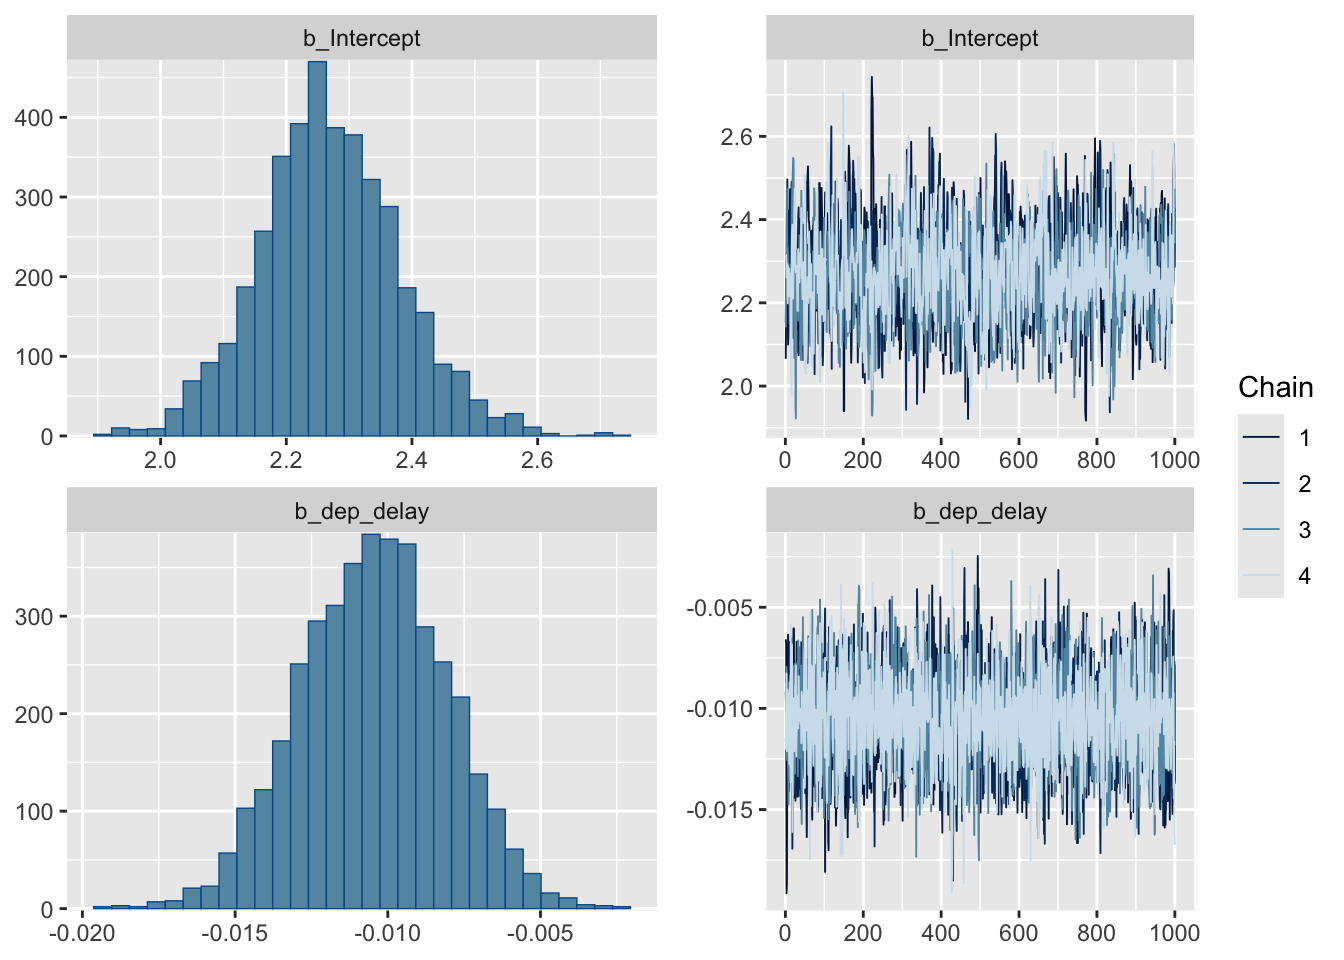
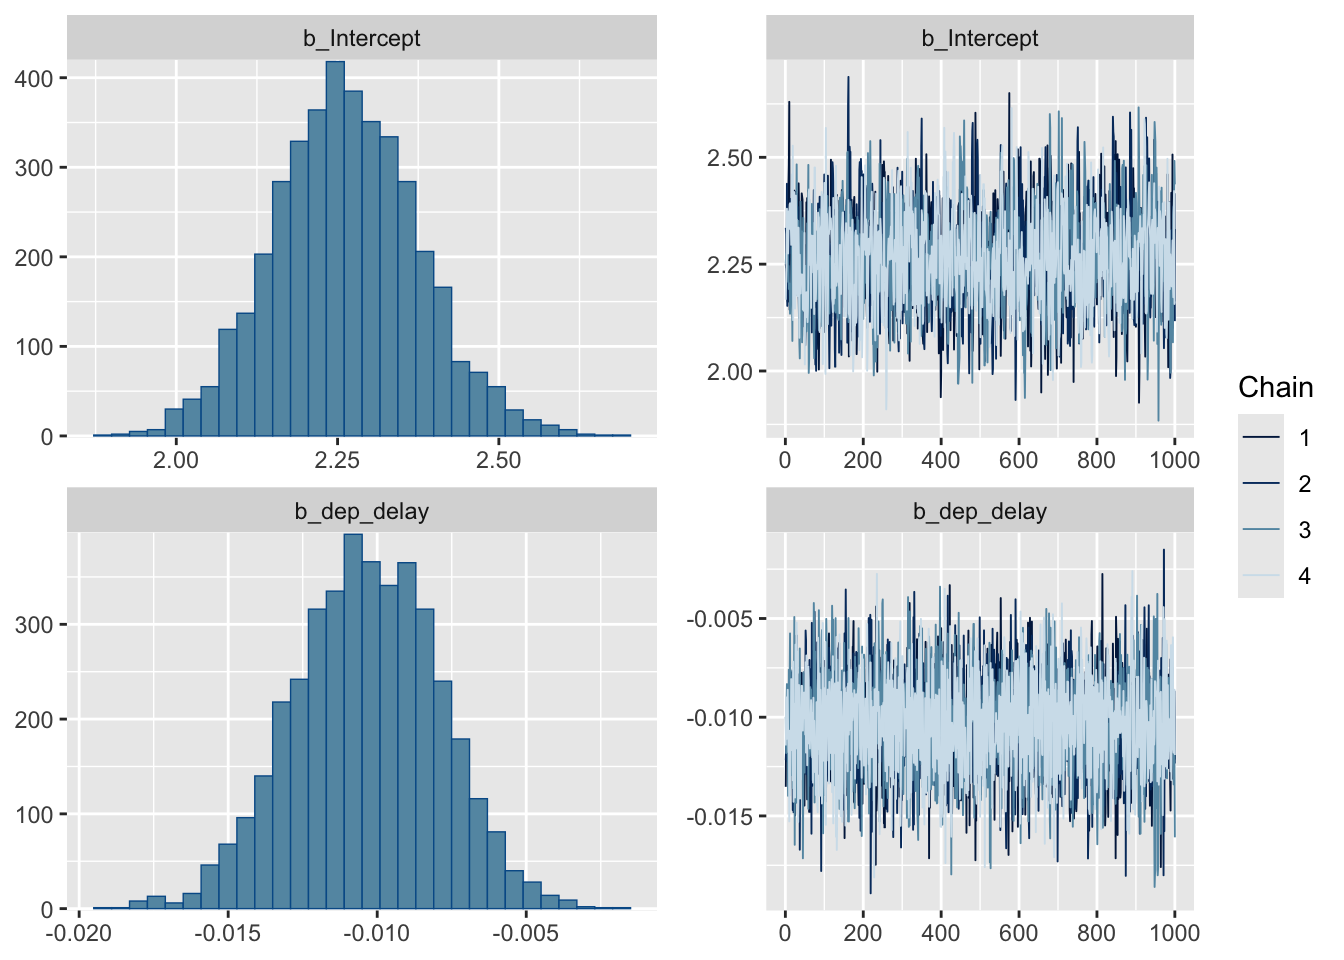
about me

diff --git a/docs/posts/first-post/index.html b/docs/posts/first-post/index.html
@@ -344,7 +344,7 @@ The following object is masked from 'package:dplyr':
 <span id="cb18-7"><a href="#cb18-7" aria-hidden="true" tabindex="-1"></a>  <span class="fu">labs</span>(<span class="at">x =</span> <span class="st">"Departure Delay (minutes)"</span>, <span class="at">y =</span> <span class="st">"Predicted Satisfaction"</span>,</span>
 <span id="cb18-8"><a href="#cb18-8" aria-hidden="true" tabindex="-1"></a>       <span class="at">title =</span> <span class="st">"Prior Predictive Distribution of Satisfaction"</span>)</span></code><button title="Copy to Clipboard" class="code-copy-button"><i class="bi"></i></button></pre></div>
 <div class="cell-output cell-output-stderr">
-<pre><code>Warning: Removed 272 rows containing missing values or values outside the scale range
+<pre><code>Warning: Removed 270 rows containing missing values or values outside the scale range
 (`geom_point()`).</code></pre>
 </div>
 <div class="cell-output-display">
@@ -393,8 +393,8 @@ Formula: satisfaction ~ dep_delay
 
 Regression Coefficients:
           Estimate Est.Error l-95% CI u-95% CI Rhat Bulk_ESS Tail_ESS
-Intercept     2.27      0.11     2.06     2.50 1.00     1179     1735
-dep_delay    -0.01      0.00    -0.02    -0.01 1.00     3871     2933
+Intercept     2.26      0.11     2.05     2.49 1.00     1718     1745
+dep_delay    -0.01      0.00    -0.02    -0.01 1.00     3740     3011
 
 Draws were sampled using sampling(NUTS). For each parameter, Bulk_ESS
 and Tail_ESS are effective sample size measures, and Rhat is the potential
@@ -414,11 +414,11 @@ scale reduction factor on split chains (at convergence, Rhat = 1).</code></pre>
 <span id="cb29-2"><a href="#cb29-2" aria-hidden="true" tabindex="-1"></a><span class="fu">print</span>(ci)</span></code><button title="Copy to Clipboard" class="code-copy-button"><i class="bi"></i></button></pre></div>
 <div class="cell-output cell-output-stdout">
 <pre><code>                 Estimate   Est.Error          Q2.5         Q97.5
-b_Intercept    2.26958305 0.111966195    2.05524632  2.502076e+00
-b_dep_delay   -0.01047574 0.002408192   -0.01513133 -5.906598e-03
-Intercept      2.17634896 0.107142421    1.96766324  2.395174e+00
-lprior        -2.36822434 0.039766102   -2.45106544 -2.292611e+00
-lp__        -332.38638692 1.045709591 -335.19875519 -3.314048e+02</code></pre>
+b_Intercept    2.26365050 0.111776383    2.04756832  2.492048e+00
+b_dep_delay   -0.01036457 0.002446404   -0.01526691 -5.756473e-03
+Intercept      2.17140586 0.105822697    1.97086454  2.387417e+00
+lprior        -2.36638160 0.039205074   -2.44803280 -2.293726e+00
+lp__        -332.38234011 0.979655019 -335.06355886 -3.314082e+02</code></pre>
 </div>
 </div>
 </section>
@@ -479,8 +479,8 @@ Formula: satisfaction ~ dep_delay
 
 Regression Coefficients:
           Estimate Est.Error l-95% CI u-95% CI Rhat Bulk_ESS Tail_ESS
-Intercept     2.27      0.11     2.06     2.49 1.00     1741     2071
-dep_delay    -0.01      0.00    -0.02    -0.01 1.00     3347     2582
+Intercept     2.27      0.11     2.06     2.49 1.00     1631     2153
+dep_delay    -0.01      0.00    -0.02    -0.01 1.00     3814     3081
 
 Draws were sampled using sampling(NUTS). For each parameter, Bulk_ESS
 and Tail_ESS are effective sample size measures, and Rhat is the potential
@@ -503,12 +503,12 @@ scale reduction factor on split chains (at convergence, Rhat = 1).</code></pre>
 <div class="sourceCode cell-code" id="cb40"><pre class="sourceCode r code-with-copy"><code class="sourceCode r"><span id="cb40-1"><a href="#cb40-1" aria-hidden="true" tabindex="-1"></a>ci <span class="ot">&lt;-</span> <span class="fu">posterior_summary</span>(fit_prior, <span class="at">probs =</span> <span class="fu">c</span>(<span class="fl">0.025</span>, <span class="fl">0.975</span>))</span>
 <span id="cb40-2"><a href="#cb40-2" aria-hidden="true" tabindex="-1"></a><span class="fu">print</span>(ci)</span></code><button title="Copy to Clipboard" class="code-copy-button"><i class="bi"></i></button></pre></div>
 <div class="cell-output cell-output-stdout">
-<pre><code>                 Estimate   Est.Error          Q2.5         Q97.5
-b_Intercept    2.26995012 0.111239116    2.05624433  2.491284e+00
-b_dep_delay   -0.01043287 0.002501982   -0.01560002 -5.867454e-03
-Intercept      2.17709757 0.106051296    1.97613741  2.387037e+00
-lprior        -4.85737872 0.002317320   -4.86212455 -4.853144e+00
-lp__        -334.90143595 1.032939173 -337.60166201 -3.338944e+02</code></pre>
+<pre><code>                Estimate   Est.Error          Q2.5         Q97.5
+b_Intercept    2.2740689 0.109121807    2.06356973  2.491882e+00
+b_dep_delay   -0.0105105 0.002430995   -0.01539138 -5.923673e-03
+Intercept      2.1805255 0.104103385    1.98044671  2.386477e+00
+lprior        -4.8574515 0.002274485   -4.86210351 -4.853234e+00
+lp__        -334.8570389 0.978801116 -337.46009503 -3.339049e+02</code></pre>
 </div>
 </div>
 <p>After setting our own priors for our model, we got results that we the same. The $\beta_0$ value was the exact same of 2.27. The $\beta_1$ values or the slope, were the exact same at -0.01. The 95% credible interval for the intercept is approximately [2.06, 2.48], indicating that we are 95% confident that the true intercept lies within this range. This was pretty much the same as the 95% confidence interval for brm’s priors that was [2.06, 2.49]. The 95% credible interval for `dep_delay` is approximately [-0.016, -0.006], there is a 95% probability that the true value from dep_delay is within the interval. This is sightly different from the 95% credible interval for brm’s priors that was [-0.010, 0.003]. This is probably because brm chose a flat prior for the slope, but we picked one that included some prior knowledge on the slope. Overall, the prior had very little influence on the posterior distribution. So the model is not very sensitivity to the prior.</p>

diff --git a/docs/projects.html b/docs/projects.html
@@ -147,7 +147,7 @@ ul.task-list li input[type="checkbox"] {
 <!-- margin-sidebar -->
     <div id="quarto-margin-sidebar" class="sidebar margin-sidebar">
         
-    <h5 class="quarto-listing-category-title">Categories</h5><div class="quarto-listing-category category-default"><div class="category" data-category="">All <span class="quarto-category-count">(2)</span></div><div class="category" data-category="Bayesian">Bayesian <span class="quarto-category-count">(1)</span></div><div class="category" data-category="analysis">analysis <span class="quarto-category-count">(1)</span></div><div class="category" data-category="code">code <span class="quarto-category-count">(1)</span></div></div></div>
+    <h5 class="quarto-listing-category-title">Categories</h5><div class="quarto-listing-category category-default"><div class="category" data-category="">All <span class="quarto-category-count">(2)</span></div><div class="category" data-category="Bayesian">Bayesian <span class="quarto-category-count">(2)</span></div><div class="category" data-category="analysis">analysis <span class="quarto-category-count">(2)</span></div><div class="category" data-category="code">code <span class="quarto-category-count">(2)</span></div></div></div>
 <!-- main -->
 <main class="content quarto-banner-title-block column-page-left" id="quarto-document-content">
 
@@ -160,36 +160,7 @@ ul.task-list li input[type="checkbox"] {
 
 <div class="quarto-listing quarto-listing-container-default" id="listing-listing">
 <div class="list quarto-listing-default">
-<div class="quarto-post image-right" data-index="0" data-listing-file-modified-sort="1718244838181" data-listing-reading-time-sort="9.245">
-<div class="thumbnail">
-<a href="./posts/second-post/index.html">
-<div class="thumbnail-image">
-
-</div>
-</a><p><a href="./posts/second-post/index.html"></a></p>
-</div>
-<div class="body">
-<a href="./posts/second-post/index.html">
-<h3 class="no-anchor listing-title">
-Naive Bayes Classification
-</h3>
-<div class="listing-subtitle">
-
-</div>
-<div class="listing-description">
-In this file, will use naive Bayes classification…
-</div>
-</a>
-</div>
-<div class="metadata">
-<a href="./posts/second-post/index.html">
-<div class="listing-author">
-Jose Garcia
-</div>
-</a>
-</div>
-</div>
-<div class="quarto-post image-right" data-index="1" data-categories="Bayesian,code,analysis" data-listing-date-sort="1716793200000" data-listing-file-modified-sort="1718241823671" data-listing-reading-time-sort="6.07">
+<div class="quarto-post image-right" data-index="0" data-categories="Bayesian,code,analysis" data-listing-date-sort="1716793200000" data-listing-file-modified-sort="1718241823671" data-listing-reading-time-sort="6.07">
 <div class="thumbnail">
 <p><a href="./posts/first-post/index.html"> <img src="./posts/first-post/plane.jpg" class="thumnail-image"> </a></p>
 </div>
@@ -223,6 +194,51 @@ Our research question is how does flight departure delay affect customer…
 <a href="./posts/first-post/index.html">
 <div class="listing-date">
 May 27, 2024
+</div>
+<div class="listing-author">
+Jose Garcia
+</div>
+</a>
+</div>
+</div>
+<div class="quarto-post image-right" data-index="1" data-categories="Bayesian,code,analysis" data-listing-date-sort="1715065200000" data-listing-file-modified-sort="1718247042401" data-listing-reading-time-sort="9.245">
+<div class="thumbnail">
+<a href="./posts/second-post/index.html">
+<div class="thumbnail-image">
+
+</div>
+</a><p><a href="./posts/second-post/index.html"></a></p>
+</div>
+<div class="body">
+<a href="./posts/second-post/index.html">
+<h3 class="no-anchor listing-title">
+Naive Bayes Classification
+</h3>
+<div class="listing-subtitle">
+
+</div>
+</a>
+<div class="listing-categories">
+<div class="listing-category" onclick="window.quartoListingCategory('Bayesian'); return false;">
+Bayesian
+</div>
+<div class="listing-category" onclick="window.quartoListingCategory('code'); return false;">
+code
+</div>
+<div class="listing-category" onclick="window.quartoListingCategory('analysis'); return false;">
+analysis
+</div>
+</div>
+<a href="./posts/second-post/index.html">
+<div class="listing-description">
+In this file, will use naive Bayes classification…
+</div>
+</a>
+</div>
+<div class="metadata">
+<a href="./posts/second-post/index.html">
+<div class="listing-date">
+May 7, 2024
 </div>
 <div class="listing-author">
 Jose Garcia

diff --git a/docs/posts/second-post/index.html b/docs/posts/second-post/index.html
@@ -7,6 +7,7 @@
 <meta name="viewport" content="width=device-width, initial-scale=1.0, user-scalable=yes">
 
 <meta name="author" content="Jose Garcia">
+<meta name="dcterms.date" content="2024-05-07">
 
 <title>Website - Naive Bayes Classification</title>
 <style>
@@ -179,7 +180,12 @@ code span.wa { color: #60a0b0; font-weight: bold; font-style: italic; } /* Warni
 <header id="title-block-header" class="quarto-title-block default">
 <div class="quarto-title">
 <h1 class="title">Naive Bayes Classification</h1>
-</div>
+  <div class="quarto-categories">
+    <div class="quarto-category">Bayesian</div>
+    <div class="quarto-category">code</div>
+    <div class="quarto-category">analysis</div>
+  </div>
+  </div>
 
 
 
@@ -192,6 +198,12 @@ code span.wa { color: #60a0b0; font-weight: bold; font-style: italic; } /* Warni
           </div>
   </div>
     
+    <div>
+    <div class="quarto-title-meta-heading">Published</div>
+    <div class="quarto-title-meta-contents">
+      <p class="date">May 7, 2024</p>
+    </div>
+  </div>
   
     
   </div>

diff --git a/docs/index.html b/docs/index.html
@@ -108,8 +108,10 @@ ul.task-list li input[type="checkbox"] {
 <div class="quarto-title-meta">
   </div>
 </header><main class="content" id="quarto-document-content">
-<p>Welcome to my site! Let’s see if this works!</p>
-<p>Click the links below to learn more about me, or, check out some of my projects above.</p>
+<p>Welcome to my site!</p>
+<p>My name is Jose Garcia,a 4th year student studying Statistics at California Polytechnic State University, San Luis Obispo. I am from <a href="https://www.google.com/maps/place/San+Jose,+CA/@37.2961211,-121.9809051,11z/data=!3m1!4b1!4m6!3m5!1s0x808fcae48af93ff5:0xb99d8c0aca9f717b!8m2!3d37.33874!4d-121.8852525!16zL20vMGYwNHY?entry=ttu">San Jose, CA</a> and some of my hobbies include: hiking, playing and watching sports, and coding.</p>
+<p>If you have any questions, do not hesitate to reach out. Thank you!</p>
+<p>Click the links for more info about me, or, check out some of my projects above.</p>
 
 
 </main> 
